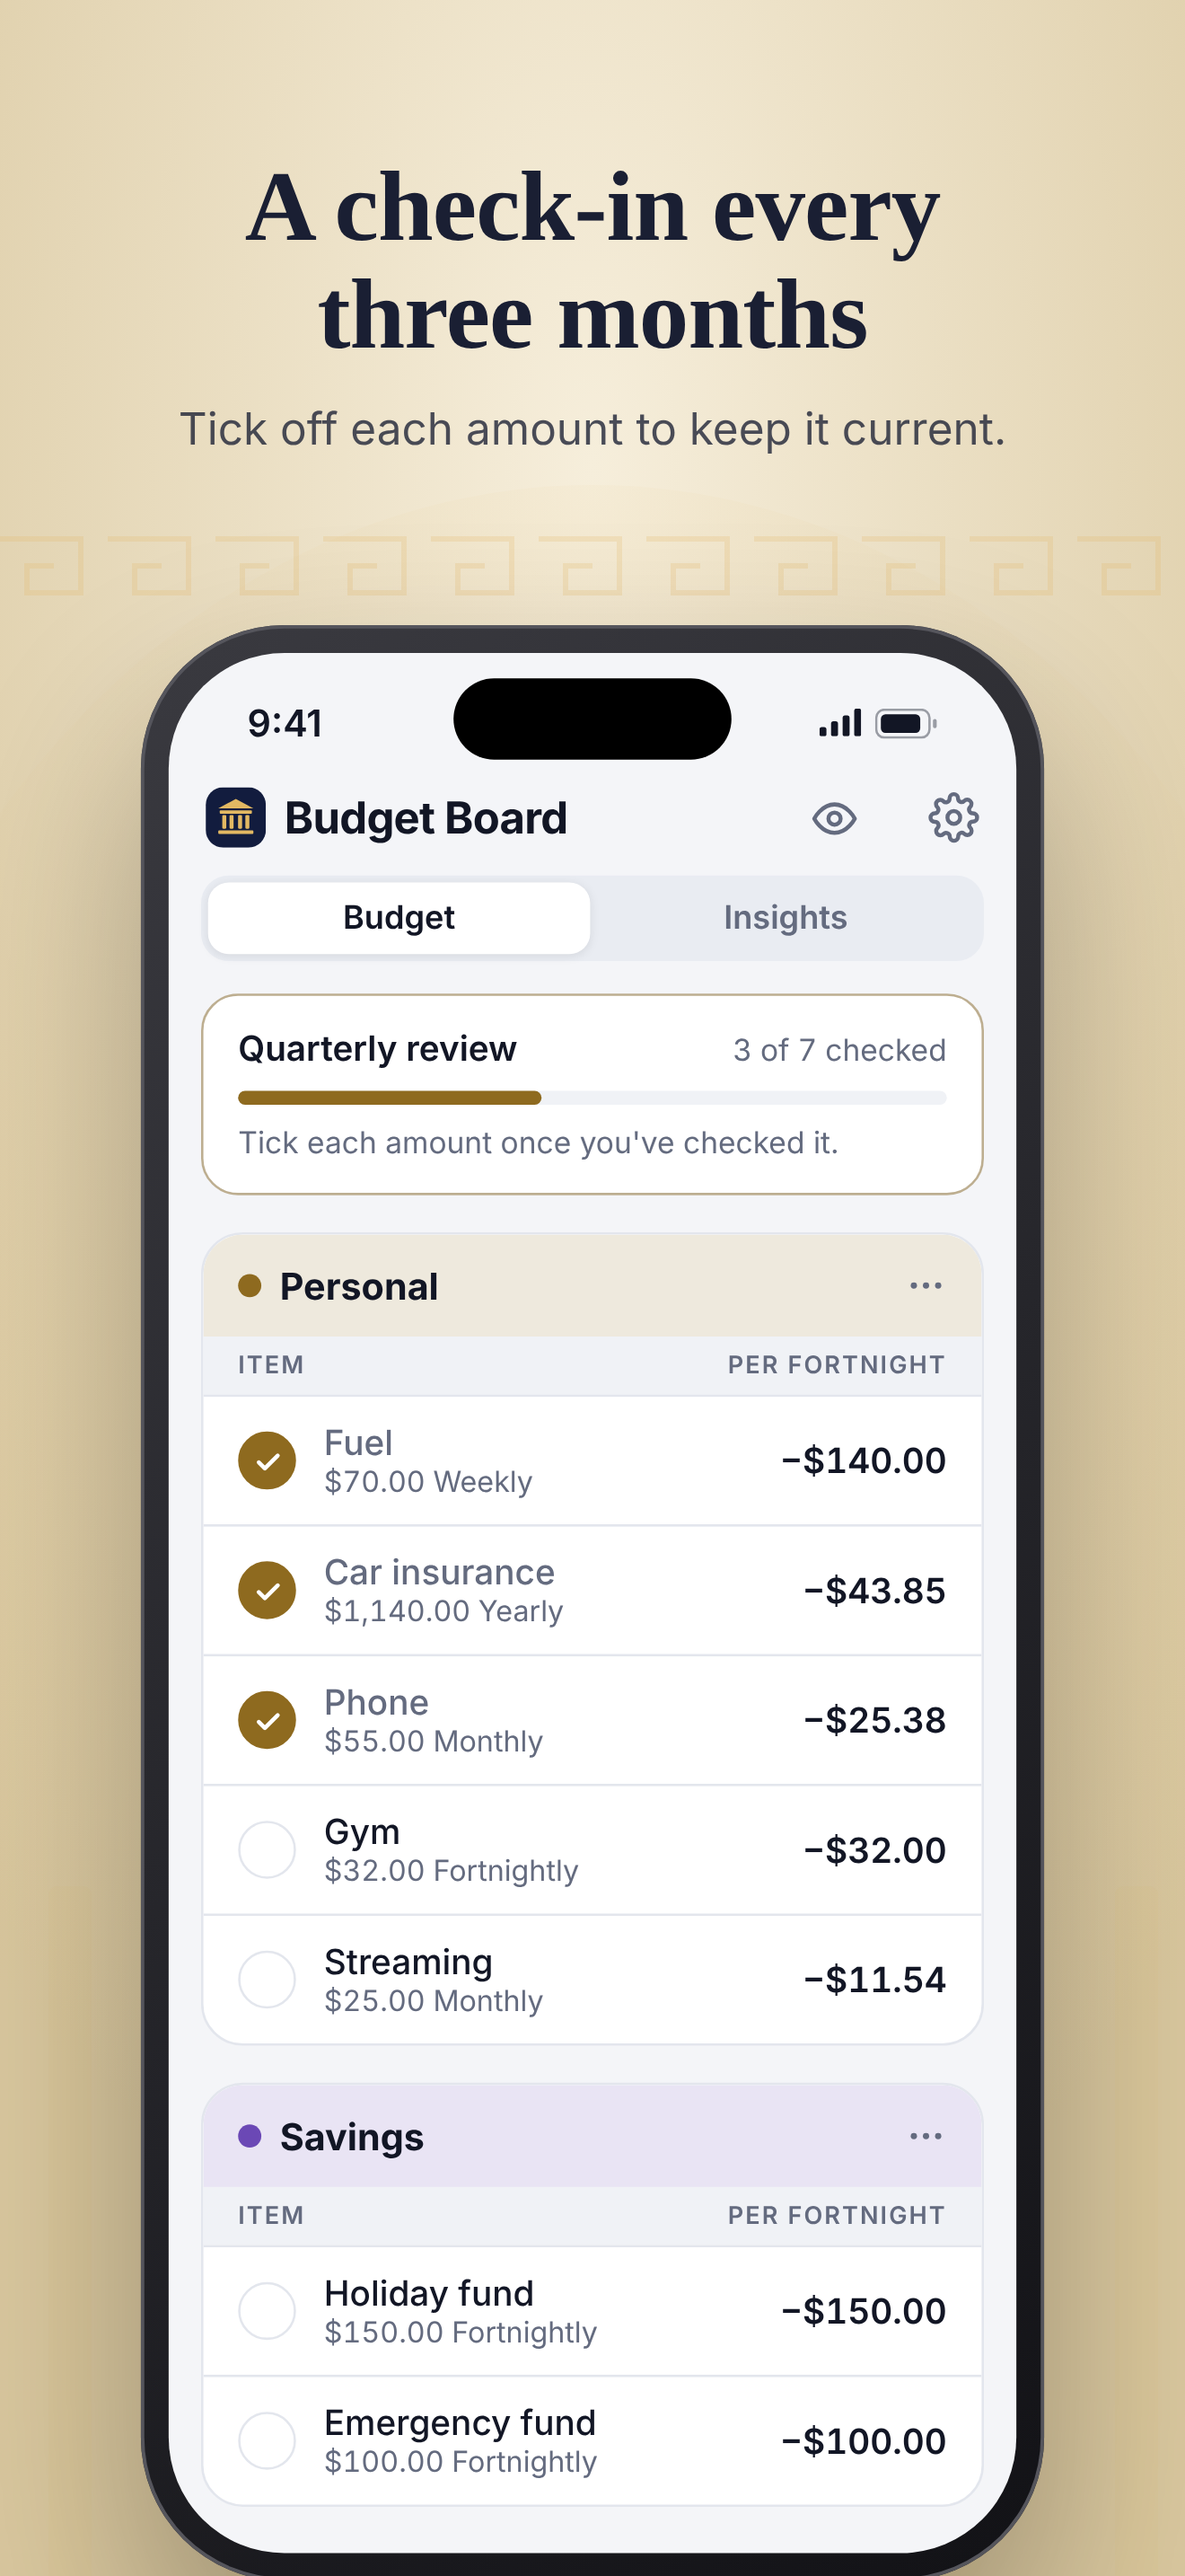
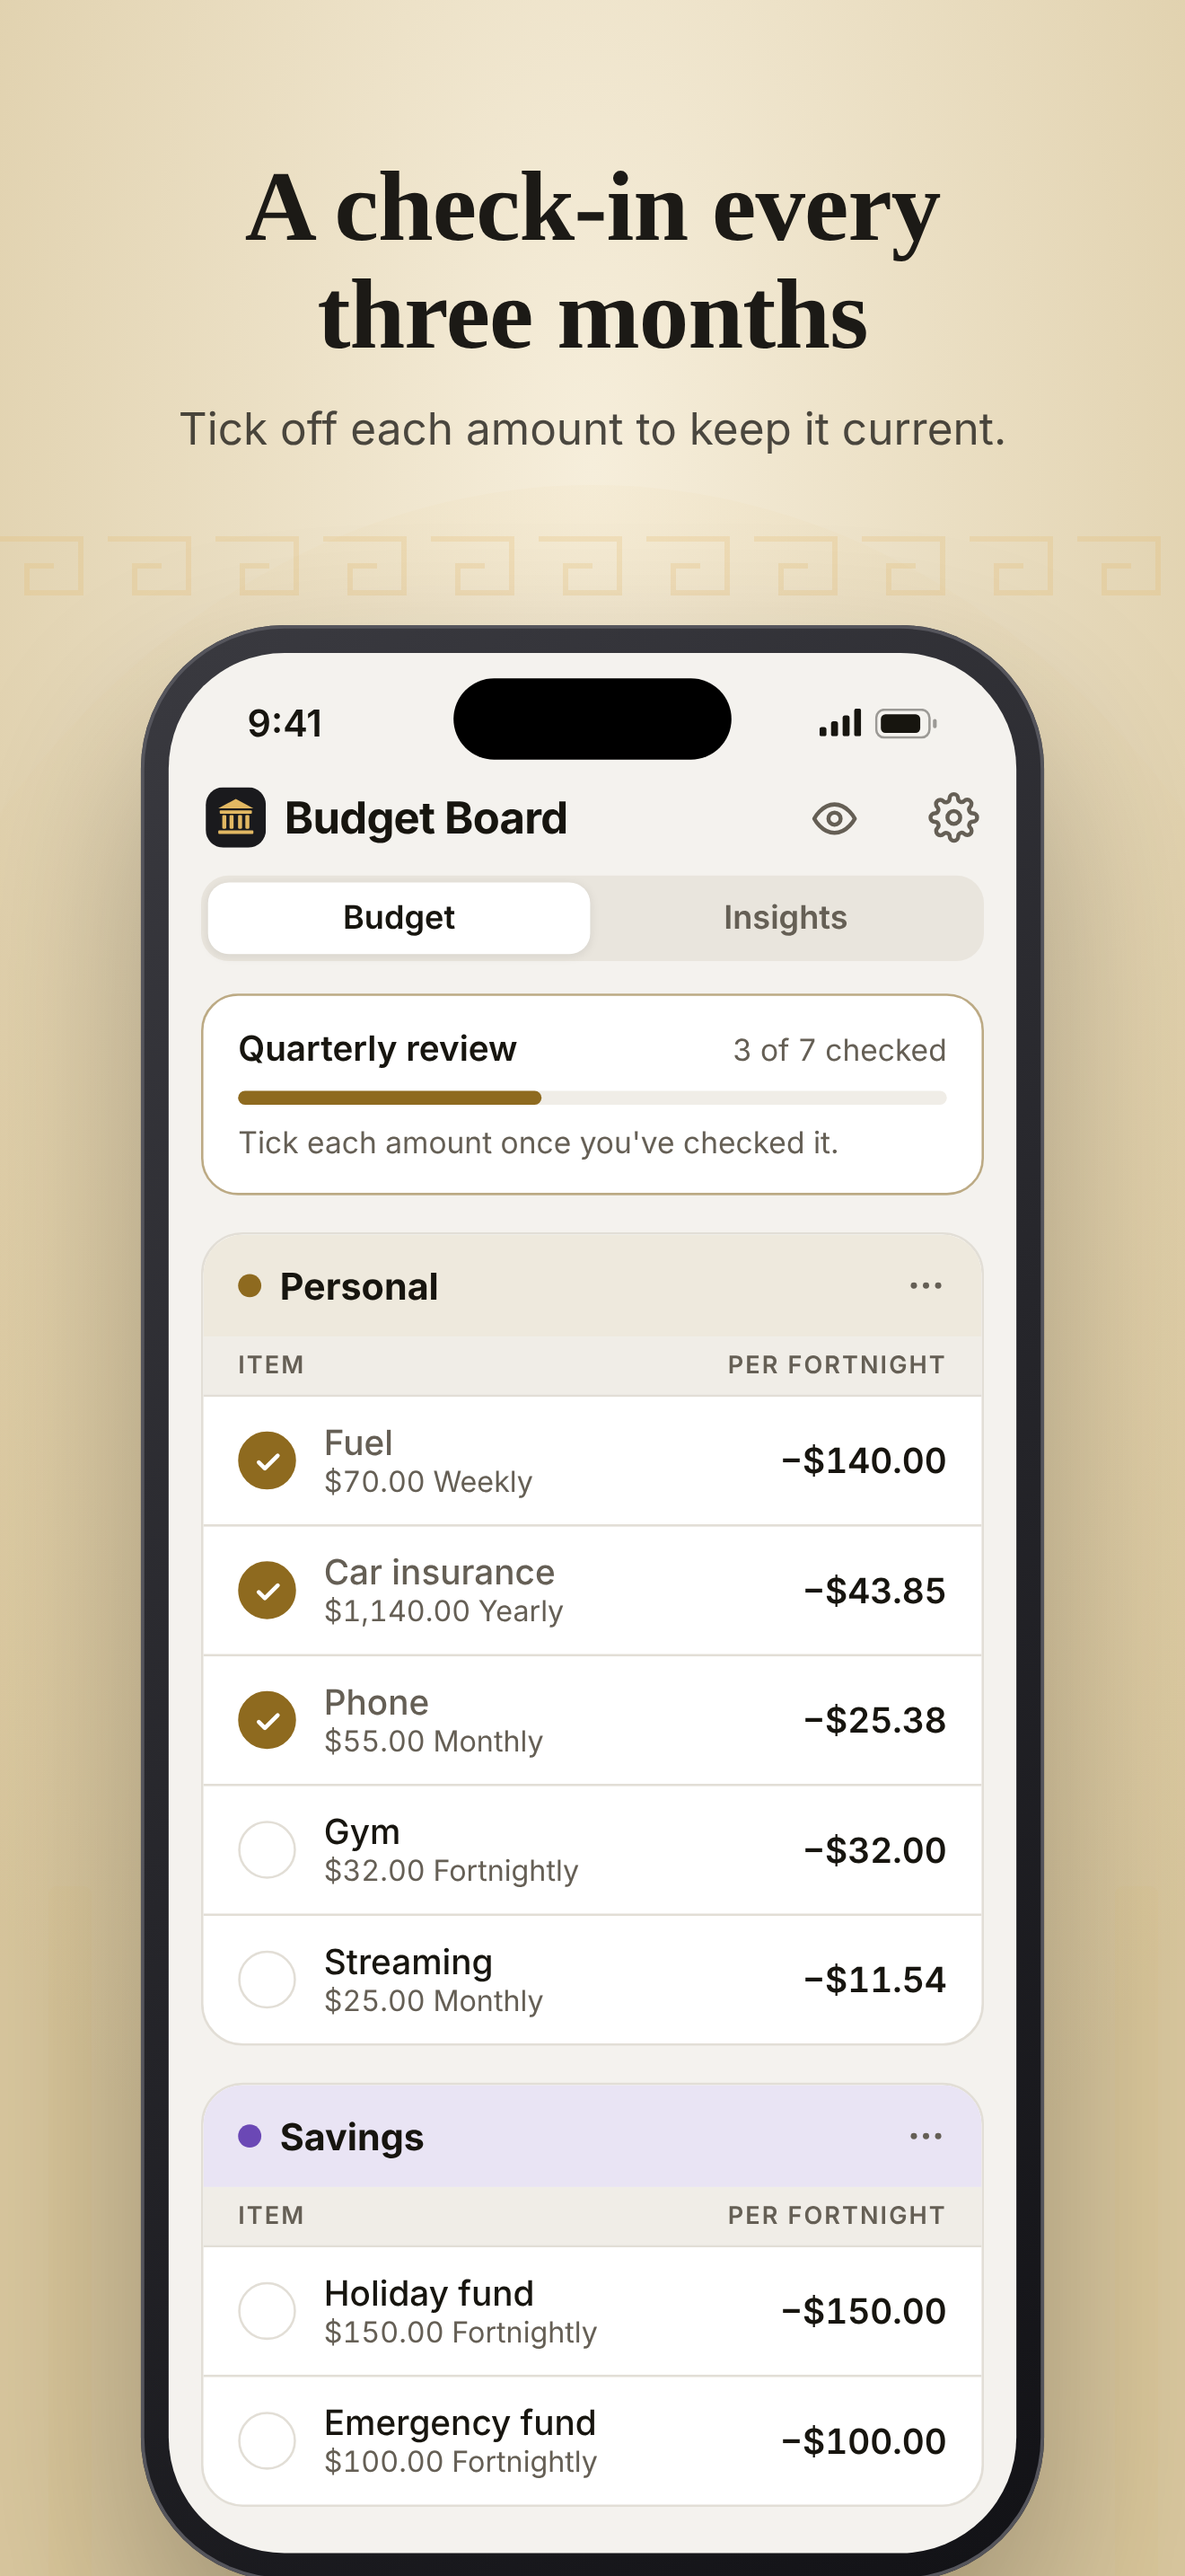
Store screenshots in charcoal and gold
Claude-Session: https://claude.ai/code/session_01SM4u5A5sRMKiUF2jvUrys6

diff --git a/store/shots/scene.html b/store/shots/scene.html
@@ -22,7 +22,7 @@ body{width:440px;height:956px;overflow:hidden;font-family:-apple-system,"SF Pro 
 .card .big span{font-size:24px;font-weight:500;letter-spacing:-.5px}
 .stats{display:flex;gap:1px;border-radius:13px;overflow:hidden;margin-top:14px}
 .stats div{flex:1;padding:9px 11px}
-.stats b{display:block;font-size:10.5px;letter-spacing:.8px;text-transform:uppercase;color:#9BA1B5;font-weight:600}
+.stats b{display:block;font-size:10.5px;letter-spacing:.8px;text-transform:uppercase;color:#BDB4A3;font-weight:600}
 .stats i{font-style:normal;font-size:15.5px;font-weight:600;letter-spacing:-.3px}
 .sec{border-radius:18px;overflow:hidden;margin-top:16px;border:.5px solid}
 .sh{display:flex;align-items:center;gap:8px;padding:12px 15px}
@@ -53,8 +53,8 @@ body{width:440px;height:956px;overflow:hidden;font-family:-apple-system,"SF Pro 
 .sw div i{width:28px;height:28px;border-radius:14px;display:block}
 </style></head><body><div id="stage"></div>
 <script>
-const SW={light:{brass:'#8E6A1F',blue:'#3550C8',teal:'#11817C',green:'#2F7A3A',orange:'#B4561E',rose:'#B13E6B',violet:'#6B48B5',slate:'#56607A'},dark:{brass:'#D9B45F',blue:'#8193FF',teal:'#3CC2BC',green:'#7BCB6E',orange:'#F0995C',rose:'#E57BA4',violet:'#A889E6',slate:'#9AA4BE'}};
-const BASE={light:{bg:'#F4F5F8',surface:'#FFFFFF',sunk:'#F0F2F6',band:'#E9ECF2',ink:'#121625',muted:'#646B7F',line:'#E3E6ED',pos:'#1B8456',neg:'#B83D2B',other:'#A2A8B8',card:'#141A2E',card2:'#090C17',accentInk:'#FFFFFF'},dark:{bg:'#0A0D16',surface:'#131725',sunk:'#171C2C',band:'#1C2235',ink:'#ECEDF3',muted:'#9AA0B4',line:'#232939',pos:'#4CC48A',neg:'#F07C66',other:'#5E667D',card:'#1B2138',card2:'#10142A',accentInk:'#12131A'}};
+const SW={light:{brass:'#8E6A1F',blue:'#3550C8',teal:'#11817C',green:'#2F7A3A',orange:'#B4561E',rose:'#B13E6B',violet:'#6B48B5',slate:'#56607A'},dark:{brass:'#D4A946',blue:'#8193FF',teal:'#3CC2BC',green:'#7BCB6E',orange:'#F0995C',rose:'#E57BA4',violet:'#A889E6',slate:'#9AA4BE'}};
+const BASE={light:{bg:'#F4F2EE',surface:'#FFFFFF',sunk:'#F0EDE7',band:'#E9E5DD',ink:'#17150F',muted:'#655F55',line:'#E2DED6',pos:'#1B8456',neg:'#B83D2B',other:'#ABA59A',card:'#1C1A16',card2:'#0F0E0C',accentInk:'#FFFFFF'},dark:{bg:'#121214',surface:'#1B1B1E',sunk:'#1F1F23',band:'#242428',ink:'#F3EFE6',muted:'#A8A39A',line:'#2F2F34',pos:'#4CC48A',neg:'#F07C66',other:'#6A665F',card:'#24221D',card2:'#151412',accentInk:'#17130A'}};
 function mix(a,b,w){const p=h=>[1,3,5].map(i=>parseInt(h.slice(i,i+2),16));const x=p(a),y=p(b);return'#'+x.map((v,i)=>Math.round(v*w+y[i]*(1-w)).toString(16).padStart(2,'0')).join('')}
 const PER={weekly:2,fortnightly:1,monthly:12/26,quarterly:4/26,yearly:1/26};const FL={weekly:'Weekly',fortnightly:'Fortnightly',monthly:'Monthly',quarterly:'Quarterly',yearly:'Yearly'};
 const money=(v,d=2)=>{const n=v<0;const [w,c]=Math.abs(v).toFixed(d).split('.');return(n?'−':'')+'$'+w.replace(/\B(?=(\d{3})+(?!\d))/g,',')+(c?'.'+c:'')};
@@ -74,13 +74,13 @@ const ICON={gear:c=>`<svg width="22" height="22" viewBox="0 0 24 24" fill="none"
 eye:c=>`<svg width="21" height="21" viewBox="0 0 24 24" fill="none" stroke="${c}" stroke-width="2" stroke-linecap="round" stroke-linejoin="round"><path d="M2 12s3.6-7 10-7 10 7 10 7-3.6 7-10 7S2 12 2 12z"/><circle cx="12" cy="12" r="3"/></svg>`,
 more:c=>`<svg width="18" height="18" viewBox="0 0 24 24" fill="${c}"><circle cx="5" cy="12" r="1.8"/><circle cx="12" cy="12" r="1.8"/><circle cx="19" cy="12" r="1.8"/></svg>`,
 check:c=>`<svg width="14" height="14" viewBox="0 0 24 24" fill="none" stroke="${c}" stroke-width="3" stroke-linecap="round" stroke-linejoin="round"><path d="M5 12.5l4.5 4.5L19 7.5"/></svg>`,
-logo:`<svg width="26" height="26" viewBox="0 0 24 24"><rect width="24" height="24" rx="7" fill="#121C3E"/><path d="M12 4.6L19 8.4H5z" fill="#E2B862"/><rect x="5.6" y="9.2" width="12.8" height="1.3" rx=".3" fill="#E2B862"/><rect x="6.6" y="11.1" width="1.6" height="5.4" rx=".4" fill="#E2B862"/><rect x="9.5" y="11.1" width="1.6" height="5.4" rx=".4" fill="#E2B862"/><rect x="12.9" y="11.1" width="1.6" height="5.4" rx=".4" fill="#E2B862"/><rect x="15.8" y="11.1" width="1.6" height="5.4" rx=".4" fill="#E2B862"/><rect x="5" y="17.1" width="14" height="1.5" rx=".4" fill="#E2B862"/></svg>`};
+logo:`<svg width="26" height="26" viewBox="0 0 24 24"><rect width="24" height="24" rx="7" fill="#1A1A1D"/><path d="M12 4.6L19 8.4H5z" fill="#E2B862"/><rect x="5.6" y="9.2" width="12.8" height="1.3" rx=".3" fill="#E2B862"/><rect x="6.6" y="11.1" width="1.6" height="5.4" rx=".4" fill="#E2B862"/><rect x="9.5" y="11.1" width="1.6" height="5.4" rx=".4" fill="#E2B862"/><rect x="12.9" y="11.1" width="1.6" height="5.4" rx=".4" fill="#E2B862"/><rect x="15.8" y="11.1" width="1.6" height="5.4" rx=".4" fill="#E2B862"/><rect x="5" y="17.1" width="14" height="1.5" rx=".4" fill="#E2B862"/></svg>`};
 function theme(mode,acc){return{...BASE[mode],mode,sw:SW[mode],accent:SW[mode][acc]}}
 function header(t,tab){return `<div class="status" style="color:${t.ink}"><span>9:41</span><span style="display:flex;gap:6px;align-items:center"><svg width="18" height="12" viewBox="0 0 18 12" fill="${t.ink}"><rect x="0" y="8" width="3" height="4" rx="1"/><rect x="5" y="5.5" width="3" height="6.5" rx="1"/><rect x="10" y="3" width="3" height="9" rx="1"/><rect x="15" y="0" width="3" height="12" rx="1"/></svg><svg width="27" height="13" viewBox="0 0 27 13"><rect x=".5" y=".5" width="23" height="12" rx="3.5" fill="none" stroke="${t.ink}" opacity=".4"/><rect x="2.5" y="2.5" width="17" height="8" rx="2" fill="${t.ink}"/><rect x="25" y="4.5" width="1.6" height="4" rx=".8" fill="${t.ink}" opacity=".4"/></svg></span></div>
 <div class="app"><div class="hdr">${ICON.logo}<div class="t" style="color:${t.ink}">Budget Board</div>${ICON.eye(t.muted)}<span style="width:14px"></span>${ICON.gear(t.muted)}</div>
-<div class="seg" style="background:${t.band}">${['Budget','Insights'].map(x=>`<div style="color:${x==tab?t.ink:t.muted};${x==tab?`background:${t.mode=='dark'?'#2C3452':t.surface};box-shadow:0 1px 4px rgba(0,0,0,${t.mode=='dark'?.3:.08})`:''}">${x}</div>`).join('')}</div>`}
-function totalCard(t){const [w,c]=money(Math.abs(left)).split('.');return `<div class="card" style="background:linear-gradient(135deg,${t.card},${t.card2});border:.5px solid rgba(255,255,255,.12)"><div style="position:absolute;inset:0;background:radial-gradient(85% 85% at 100% 0%,${t.accent}3d,transparent)"></div><div style="position:relative"><div class="k" style="color:#9BA1B5">Left each fortnight</div><div class="big num" style="color:#F3F0E8">${w}<span style="color:#9BA1B5">.${c}</span></div>
-<div class="stats" style="background:rgba(255,255,255,.09)">${[['In',money(inc,0)],['Out',money(out,0)],['Per year',money(left*26,0)]].map(([k,v])=>`<div style="background:rgba(9,12,23,.35)"><b>${k}</b><i class="num" style="color:#F3F0E8">${v}</i></div>`).join('')}</div></div></div>`}
+<div class="seg" style="background:${t.band}">${['Budget','Insights'].map(x=>`<div style="color:${x==tab?t.ink:t.muted};${x==tab?`background:${t.mode=='dark'?'#2F2F34':t.surface};box-shadow:0 1px 4px rgba(0,0,0,${t.mode=='dark'?.3:.08})`:''}">${x}</div>`).join('')}</div>`}
+function totalCard(t){const [w,c]=money(Math.abs(left)).split('.');return `<div class="card" style="background:linear-gradient(135deg,${t.card},${t.card2});border:.5px solid rgba(255,255,255,.12)"><div style="position:absolute;inset:0;background:radial-gradient(85% 85% at 100% 0%,${t.accent}3d,transparent)"></div><div style="position:relative"><div class="k" style="color:#BDB4A3">Left each fortnight</div><div class="big num" style="color:#F3F0E8">${w}<span style="color:#BDB4A3">.${c}</span></div>
+<div class="stats" style="background:rgba(255,255,255,.09)">${[['In',money(inc,0)],['Out',money(out,0)],['Per year',money(left*26,0)]].map(([k,v])=>`<div style="background:rgba(12,11,9,.35)"><b>${k}</b><i class="num" style="color:#F3F0E8">${v}</i></div>`).join('')}</div></div></div>`}
 function section(t,s,opt={}){const out=s.type=='out',sc=t.sw[s.color],vc=out?t.ink:t.pos;let under=false;
 let h=`<div class="sec" style="background:${t.surface};border-color:${t.line}"><div class="sh" style="background:${mix(sc,t.surface,.15)}"><div class="dot" style="background:${sc}"></div><div class="n" style="color:${t.ink};flex:none">${s.name}</div>${s.split>1?`<span class="tag" style="background:${t.surface};color:${t.muted}">Split ÷${s.split}</span>`:''}${!out?`<span class="tag" style="background:${t.surface};color:${t.muted}">Income</span>`:''}<span style="flex:1"></span>${ICON.more(t.muted)}</div>
 <div class="ch" style="background:${t.sunk};color:${t.muted}"><span>Item</span><span>Per fortnight</span></div>`;
@@ -98,7 +98,7 @@ const leg=(ps,tot)=>ps.map(x=>`<div class="leg"><div class="sq" style="backgroun
 return `<div style="font-size:29px;font-weight:700;letter-spacing:-1px;color:${t.ink};margin-top:2px">Insights</div>
 <div class="blk"><h3 style="color:${t.muted}">Where your pay goes</h3><div class="bx" style="background:${t.surface};border-color:${t.line}"><div style="display:flex;height:16px;border-radius:8px;overflow:hidden;gap:2px">${parts.map(x=>`<div style="width:${x.v/inc*100}%;background:${x.c}"></div>`).join('')}</div>${leg(parts,inc)}</div></div>
 <div class="blk"><h3 style="color:${t.muted}">Biggest expenses</h3><div class="bx" style="background:${t.surface};border-color:${t.line}"><div style="text-align:center"><svg width="170" height="170" viewBox="0 0 150 150"><circle cx="75" cy="75" r="${R}" fill="none" stroke="${t.sunk}" stroke-width="18"/>${circ}<text x="75" y="70" text-anchor="middle" fill="${t.muted}" font-size="11">Per fortnight</text><text x="75" y="91" text-anchor="middle" fill="${t.ink}" font-size="18" font-weight="600">${money(out,0)}</text></svg></div>${leg(sl,st)}</div></div>`}
-function settingsSheet(t,acc){const seg=(opts,on)=>`<div class="seg" style="background:${t.band};margin:0">${opts.map(x=>`<div style="color:${x==on?t.ink:t.muted};${x==on?`background:${t.mode=='dark'?'#2C3452':t.surface};box-shadow:0 1px 4px rgba(0,0,0,.08)`:''}">${x}</div>`).join('')}</div>`;
+function settingsSheet(t,acc){const seg=(opts,on)=>`<div class="seg" style="background:${t.band};margin:0">${opts.map(x=>`<div style="color:${x==on?t.ink:t.muted};${x==on?`background:${t.mode=='dark'?'#2F2F34':t.surface};box-shadow:0 1px 4px rgba(0,0,0,.08)`:''}">${x}</div>`).join('')}</div>`;
 return `<div class="sheet" style="background:${t.surface}"><div class="bar" style="border-color:${t.line}"><span style="width:60px"></span><b style="color:${t.ink}">Settings</b><b style="color:${t.accent};width:60px;text-align:right">Done</b></div>
 <div class="fld"><label style="color:${t.muted}">Budget name</label><div class="inp" style="background:${t.bg};border-color:${t.line};color:${t.ink}">Budget Board</div></div>
 <div class="fld"><label style="color:${t.muted}">Show amounts per</label>${seg(['Week','Fortnight','Month'],'Fortnight')}</div>
@@ -113,11 +113,11 @@ const cols=[...Array(7)].map((_,i)=>`<rect x="${18+i*66}" y="700" width="16" hei
 const key=[...Array(12)].map((_,i)=>`<path d="M${i*40} 0h30v20h-20v-10h10" fill="none" stroke="${gold}" stroke-width="2" opacity=".22" transform="translate(0,${v.keyY||200})"/>`).join('');
 return `<svg width="440" height="956" style="position:absolute;inset:0" viewBox="0 0 440 956"><defs><radialGradient id="g" cx="${v.gx||50}%" cy="${v.gy||18}%" r="75%"><stop offset="0" stop-color="${v.c1}"/><stop offset="1" stop-color="${v.c2}"/></radialGradient><radialGradient id="h" cx="50%" cy="40%" r="50%"><stop offset="0" stop-color="${gold}" stop-opacity=".22"/><stop offset="1" stop-color="${gold}" stop-opacity="0"/></radialGradient></defs><rect width="440" height="956" fill="url(#g)"/><ellipse cx="220" cy="560" rx="300" ry="380" fill="url(#h)"/>${cols}${key}</svg>`}
 const SCENES={
- 1:{c1:'#1E2C66',c2:'#070B1E',ink:'#F3ECDA',h:'Budget around<br>your payday',p:'Every bill turned into what it costs each pay.',mode:'dark',acc:'brass',body:t=>header(t,'Budget')+totalCard(t)+section(t,SECTIONS[0])+section(t,SECTIONS[1])},
- 2:{c1:'#14324F',c2:'#050D18',ink:'#EAF2F5',h:'Laid out like<br>a spreadsheet',p:'Sections, subheadings and totals, split with whoever you share with.',mode:'dark',acc:'teal',gx:20,body:t=>header(t,'Budget')+`<div style="margin-top:-16px"></div>`+section(t,SECTIONS[1])+section(t,SECTIONS[3])},
- 3:{c1:'#2A1F4F',c2:'#0A0718',ink:'#F1ECF8',h:'See where<br>your pay goes',p:'Your biggest costs and what’s left, at a glance.',mode:'dark',acc:'violet',gx:80,body:t=>header(t,'Insights')+insights(t)},
- 4:{c1:'#F6EEDB',c2:'#D9C79E',ink:'#1A1F33',h:'A check-in every<br>three months',p:'Tick off each amount to keep it current.',mode:'light',acc:'brass',light:true,body:t=>header(t,'Budget')+reviewBanner(t,3,7)+section(t,SECTIONS[2],{ticks:['Fuel','Car insurance','Phone'],noTotal:true})+section(t,SECTIONS[3],{ticks:[],noTotal:true})},
- 5:{c1:'#1E2C66',c2:'#070B1E',ink:'#F3ECDA',h:'Make it yours',p:'Light or dark, seven accents, fully private.',mode:'light',acc:'blue',gx:50,body:t=>header(t,'Budget')+totalCard(t)+section(t,SECTIONS[0])+settingsSheet(t,'blue')},
+ 1:{c1:'#2E2B26',c2:'#0B0B0D',ink:'#F3EFE6',h:'Budget around<br>your payday',p:'Every bill turned into what it costs each pay.',mode:'dark',acc:'brass',body:t=>header(t,'Budget')+totalCard(t)+section(t,SECTIONS[0])+section(t,SECTIONS[1])},
+ 2:{c1:'#2A2824',c2:'#0A0A0C',ink:'#F3EFE6',h:'Laid out like<br>a spreadsheet',p:'Sections, subheadings and totals, split with whoever you share with.',mode:'dark',acc:'teal',gx:20,body:t=>header(t,'Budget')+`<div style="margin-top:-16px"></div>`+section(t,SECTIONS[1])+section(t,SECTIONS[3])},
+ 3:{c1:'#2E2B26',c2:'#0B0B0D',ink:'#F3EFE6',h:'See where<br>your pay goes',p:'Your biggest costs and what’s left, at a glance.',mode:'dark',acc:'violet',gx:80,body:t=>header(t,'Insights')+insights(t)},
+ 4:{c1:'#F6EEDB',c2:'#D9C79E',ink:'#1C1A16',h:'A check-in every<br>three months',p:'Tick off each amount to keep it current.',mode:'light',acc:'brass',light:true,body:t=>header(t,'Budget')+reviewBanner(t,3,7)+section(t,SECTIONS[2],{ticks:['Fuel','Car insurance','Phone'],noTotal:true})+section(t,SECTIONS[3],{ticks:[],noTotal:true})},
+ 5:{c1:'#2A2824',c2:'#0A0A0C',ink:'#F3EFE6',h:'Make it yours',p:'Light or dark, seven accents, fully private.',mode:'light',acc:'blue',gx:50,body:t=>header(t,'Budget')+totalCard(t)+section(t,SECTIONS[0])+settingsSheet(t,'blue')},
 };
 const n=+location.hash.slice(1)||1,v=SCENES[n],t=theme(v.mode,v.acc);
 document.getElementById('stage').innerHTML=backdrop(v)+`<div class="head" style="color:${v.ink}"><h1>${v.h}</h1><p>${v.p}</p></div>
